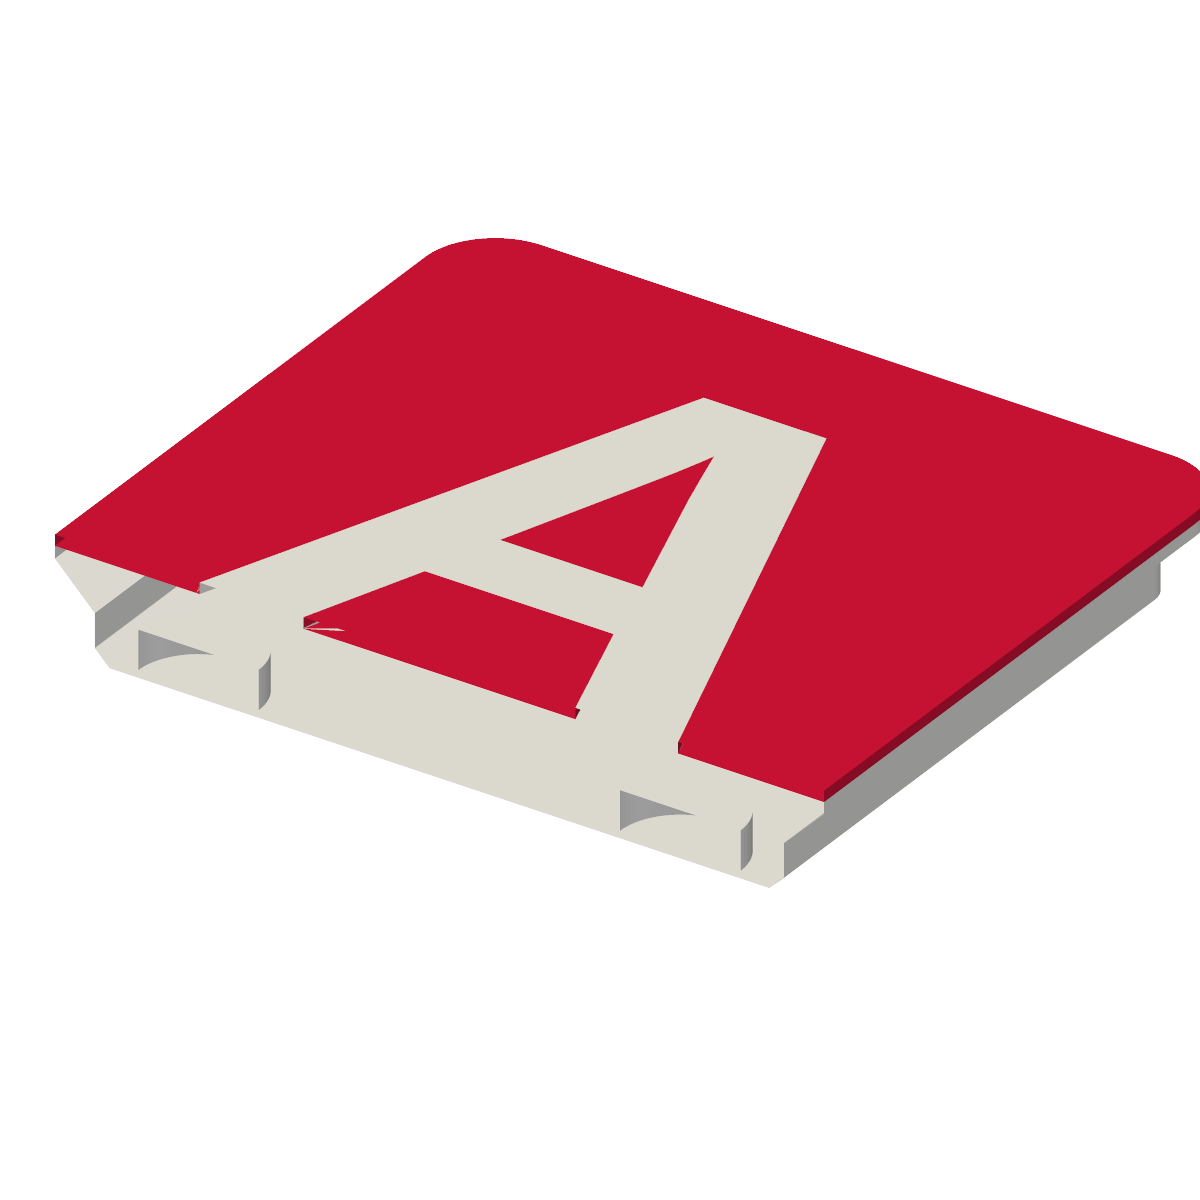
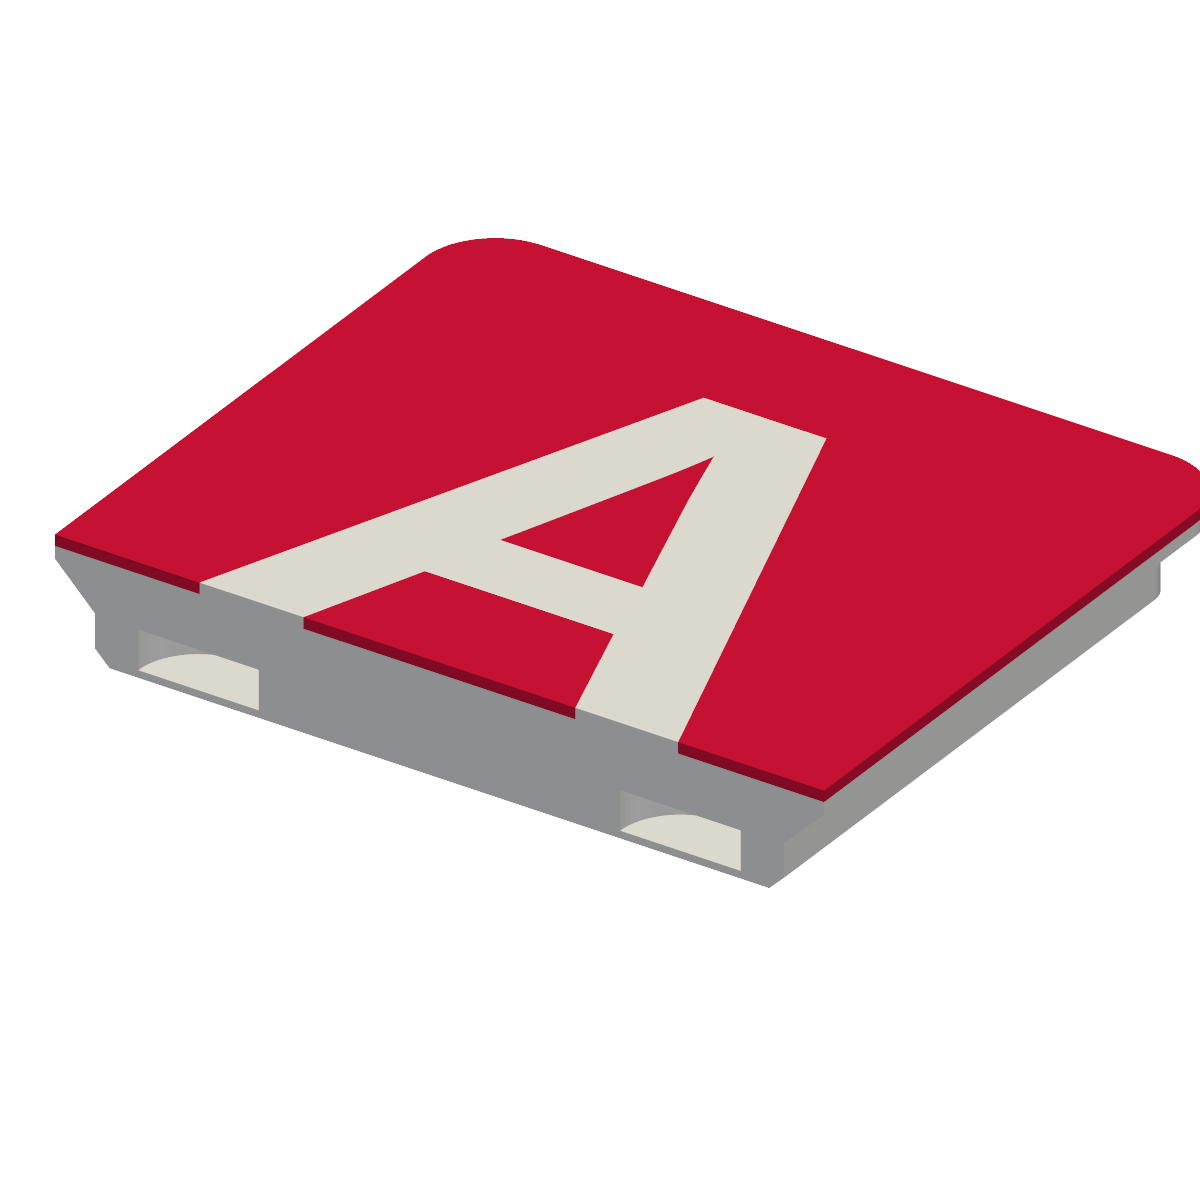
better cutaway render

Changed region(s): [[0.0308, 0.4317, 0.7092, 0.74]]

diff --git a/docs/render.py b/docs/render.py
@@ -24,10 +24,11 @@ def render(body_stl: str, outside_stl: str, out_png: str, mode: str) -> None:
 
     if mode == "cutaway":
         # Keep y >= -13 so the cut face passes through the front-row magnet
-        # pockets. Normal points outward from the discarded side.
-        plane = dict(normal=(0.0, -1.0, 0.0), origin=(0.0, -13.0, 0.0))
-        body = body.clip(**plane)
-        outside = outside.clip(**plane)
+        # pockets. `clip_closed_surface` caps the cut with a new face so the
+        # solid stays solid (vs `clip` which would leave an open hole).
+        kwargs = dict(normal=(0.0, 1.0, 0.0), origin=(0.0, -13.0, 0.0))
+        body = body.clip_closed_surface(**kwargs)
+        outside = outside.clip_closed_surface(**kwargs)
     elif mode != "preview":
         sys.exit(f"unknown mode: {mode!r}")
 